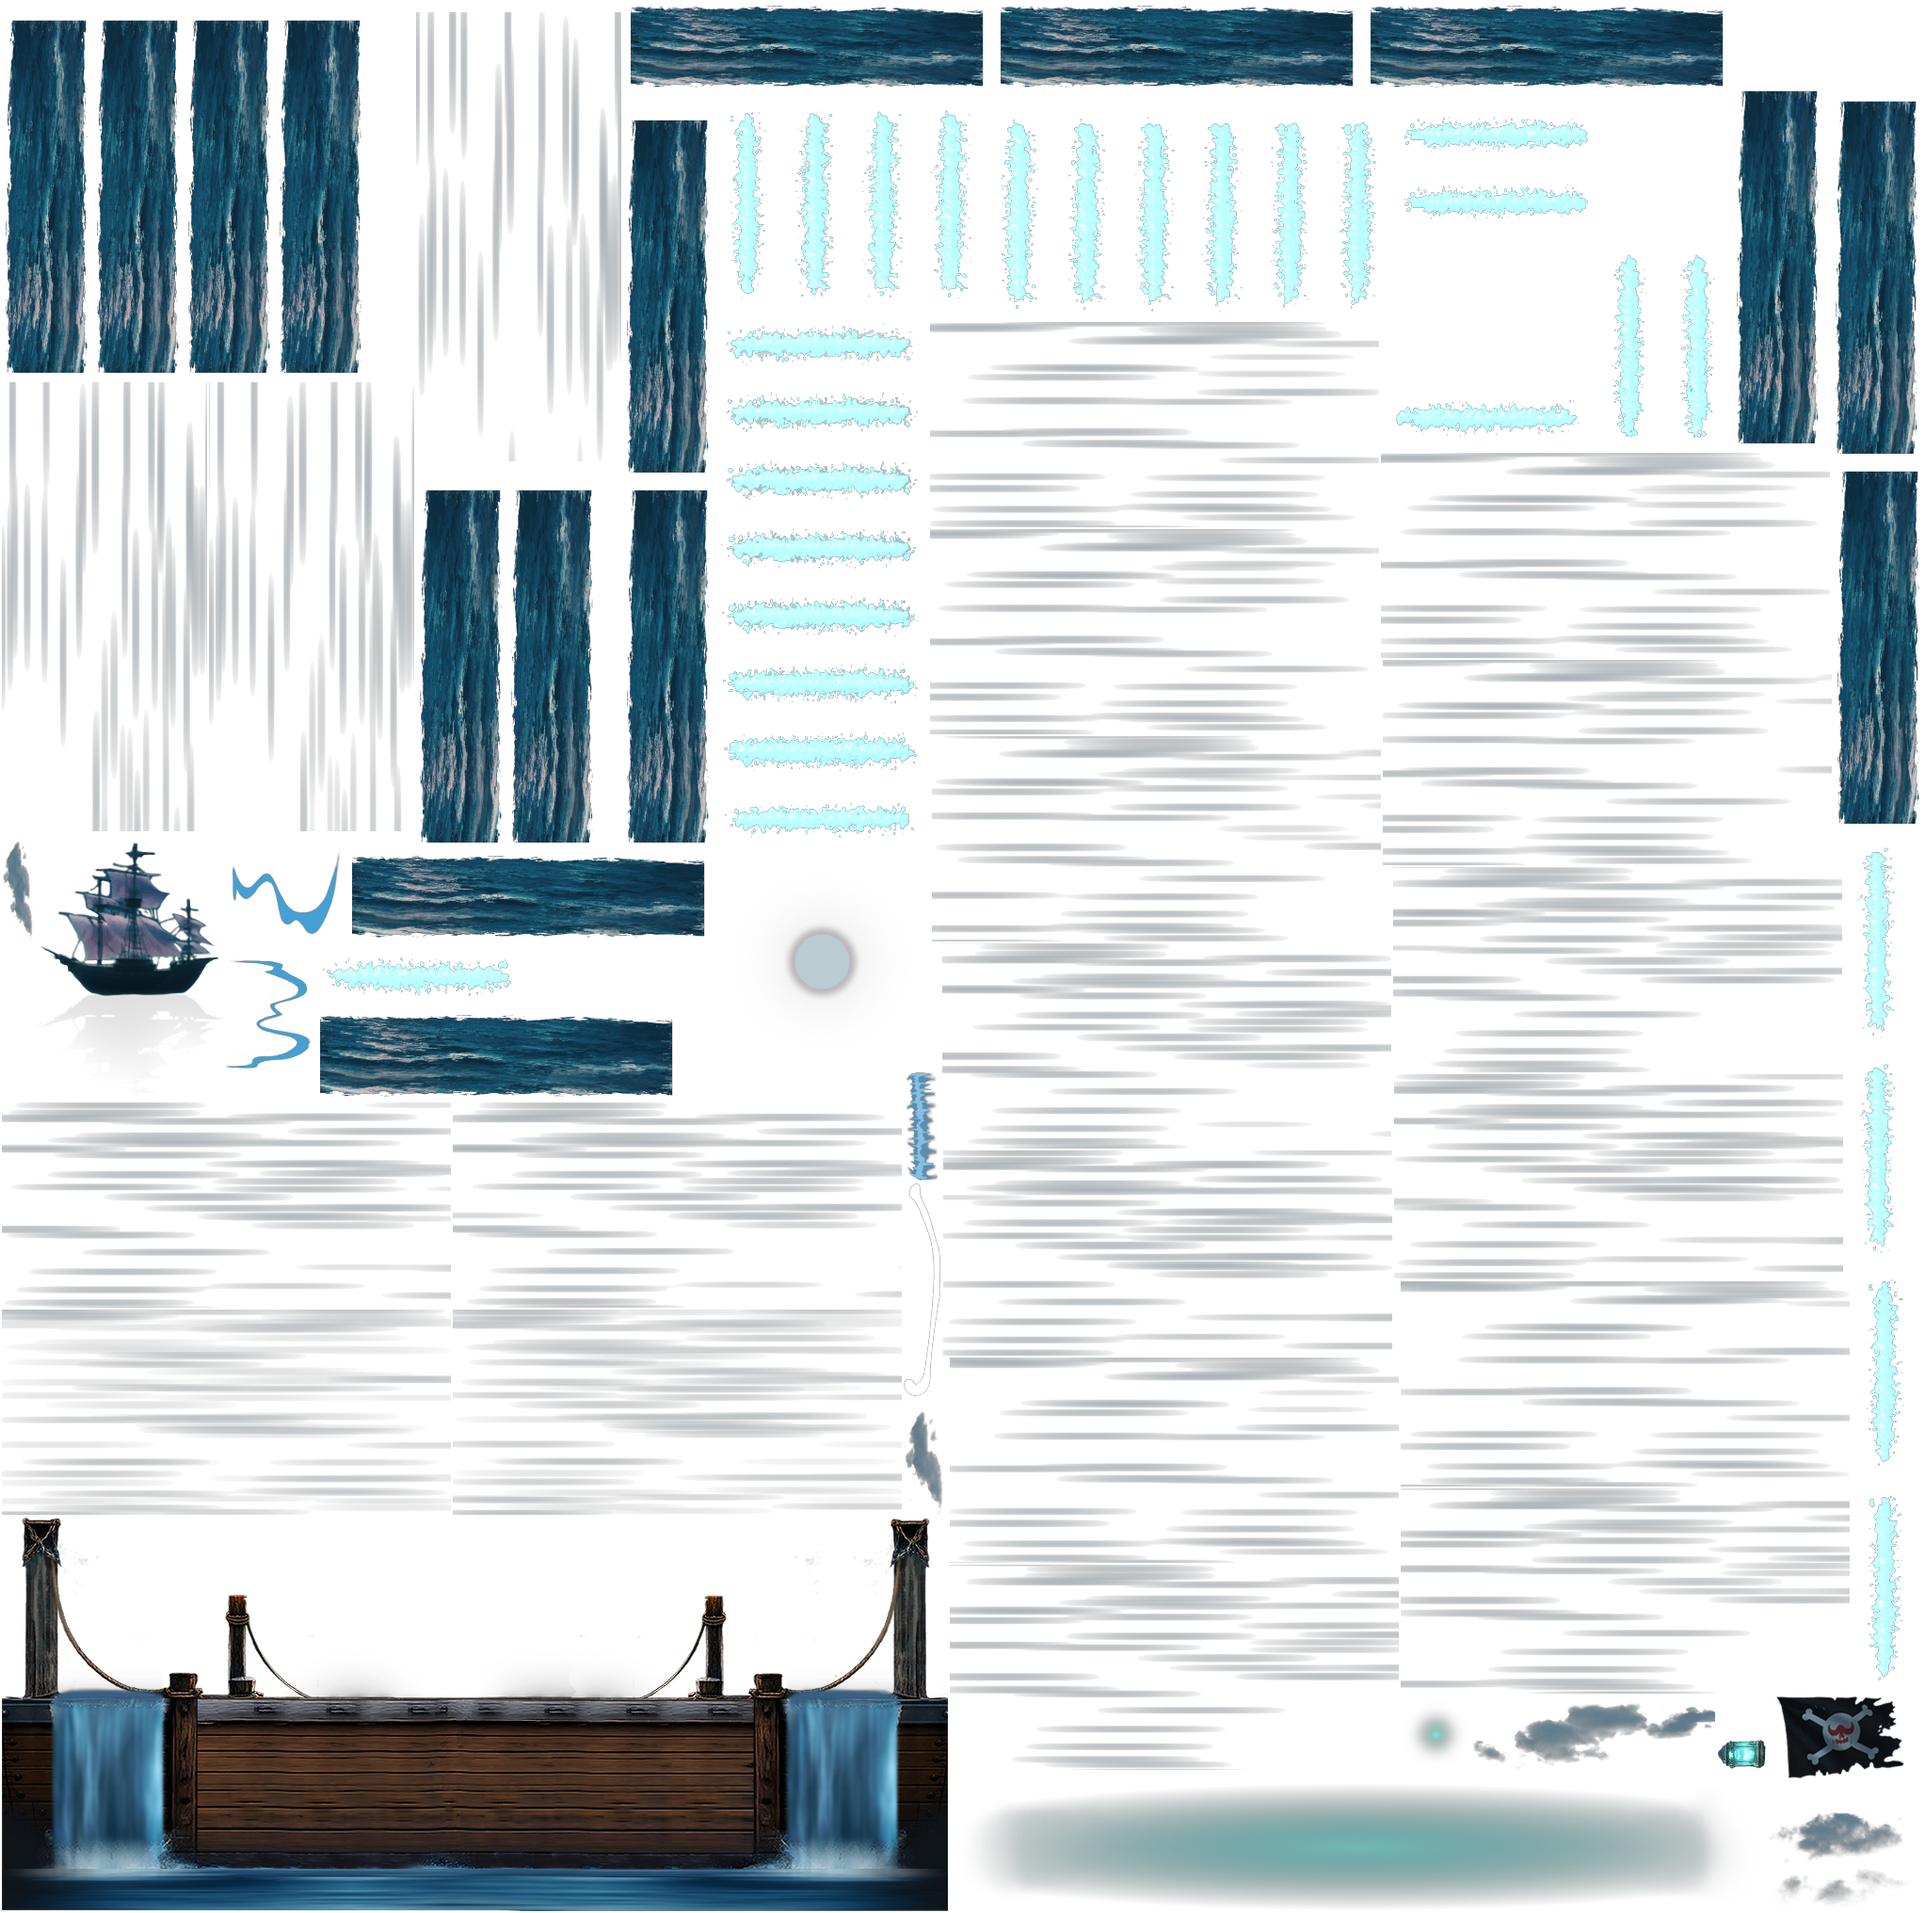
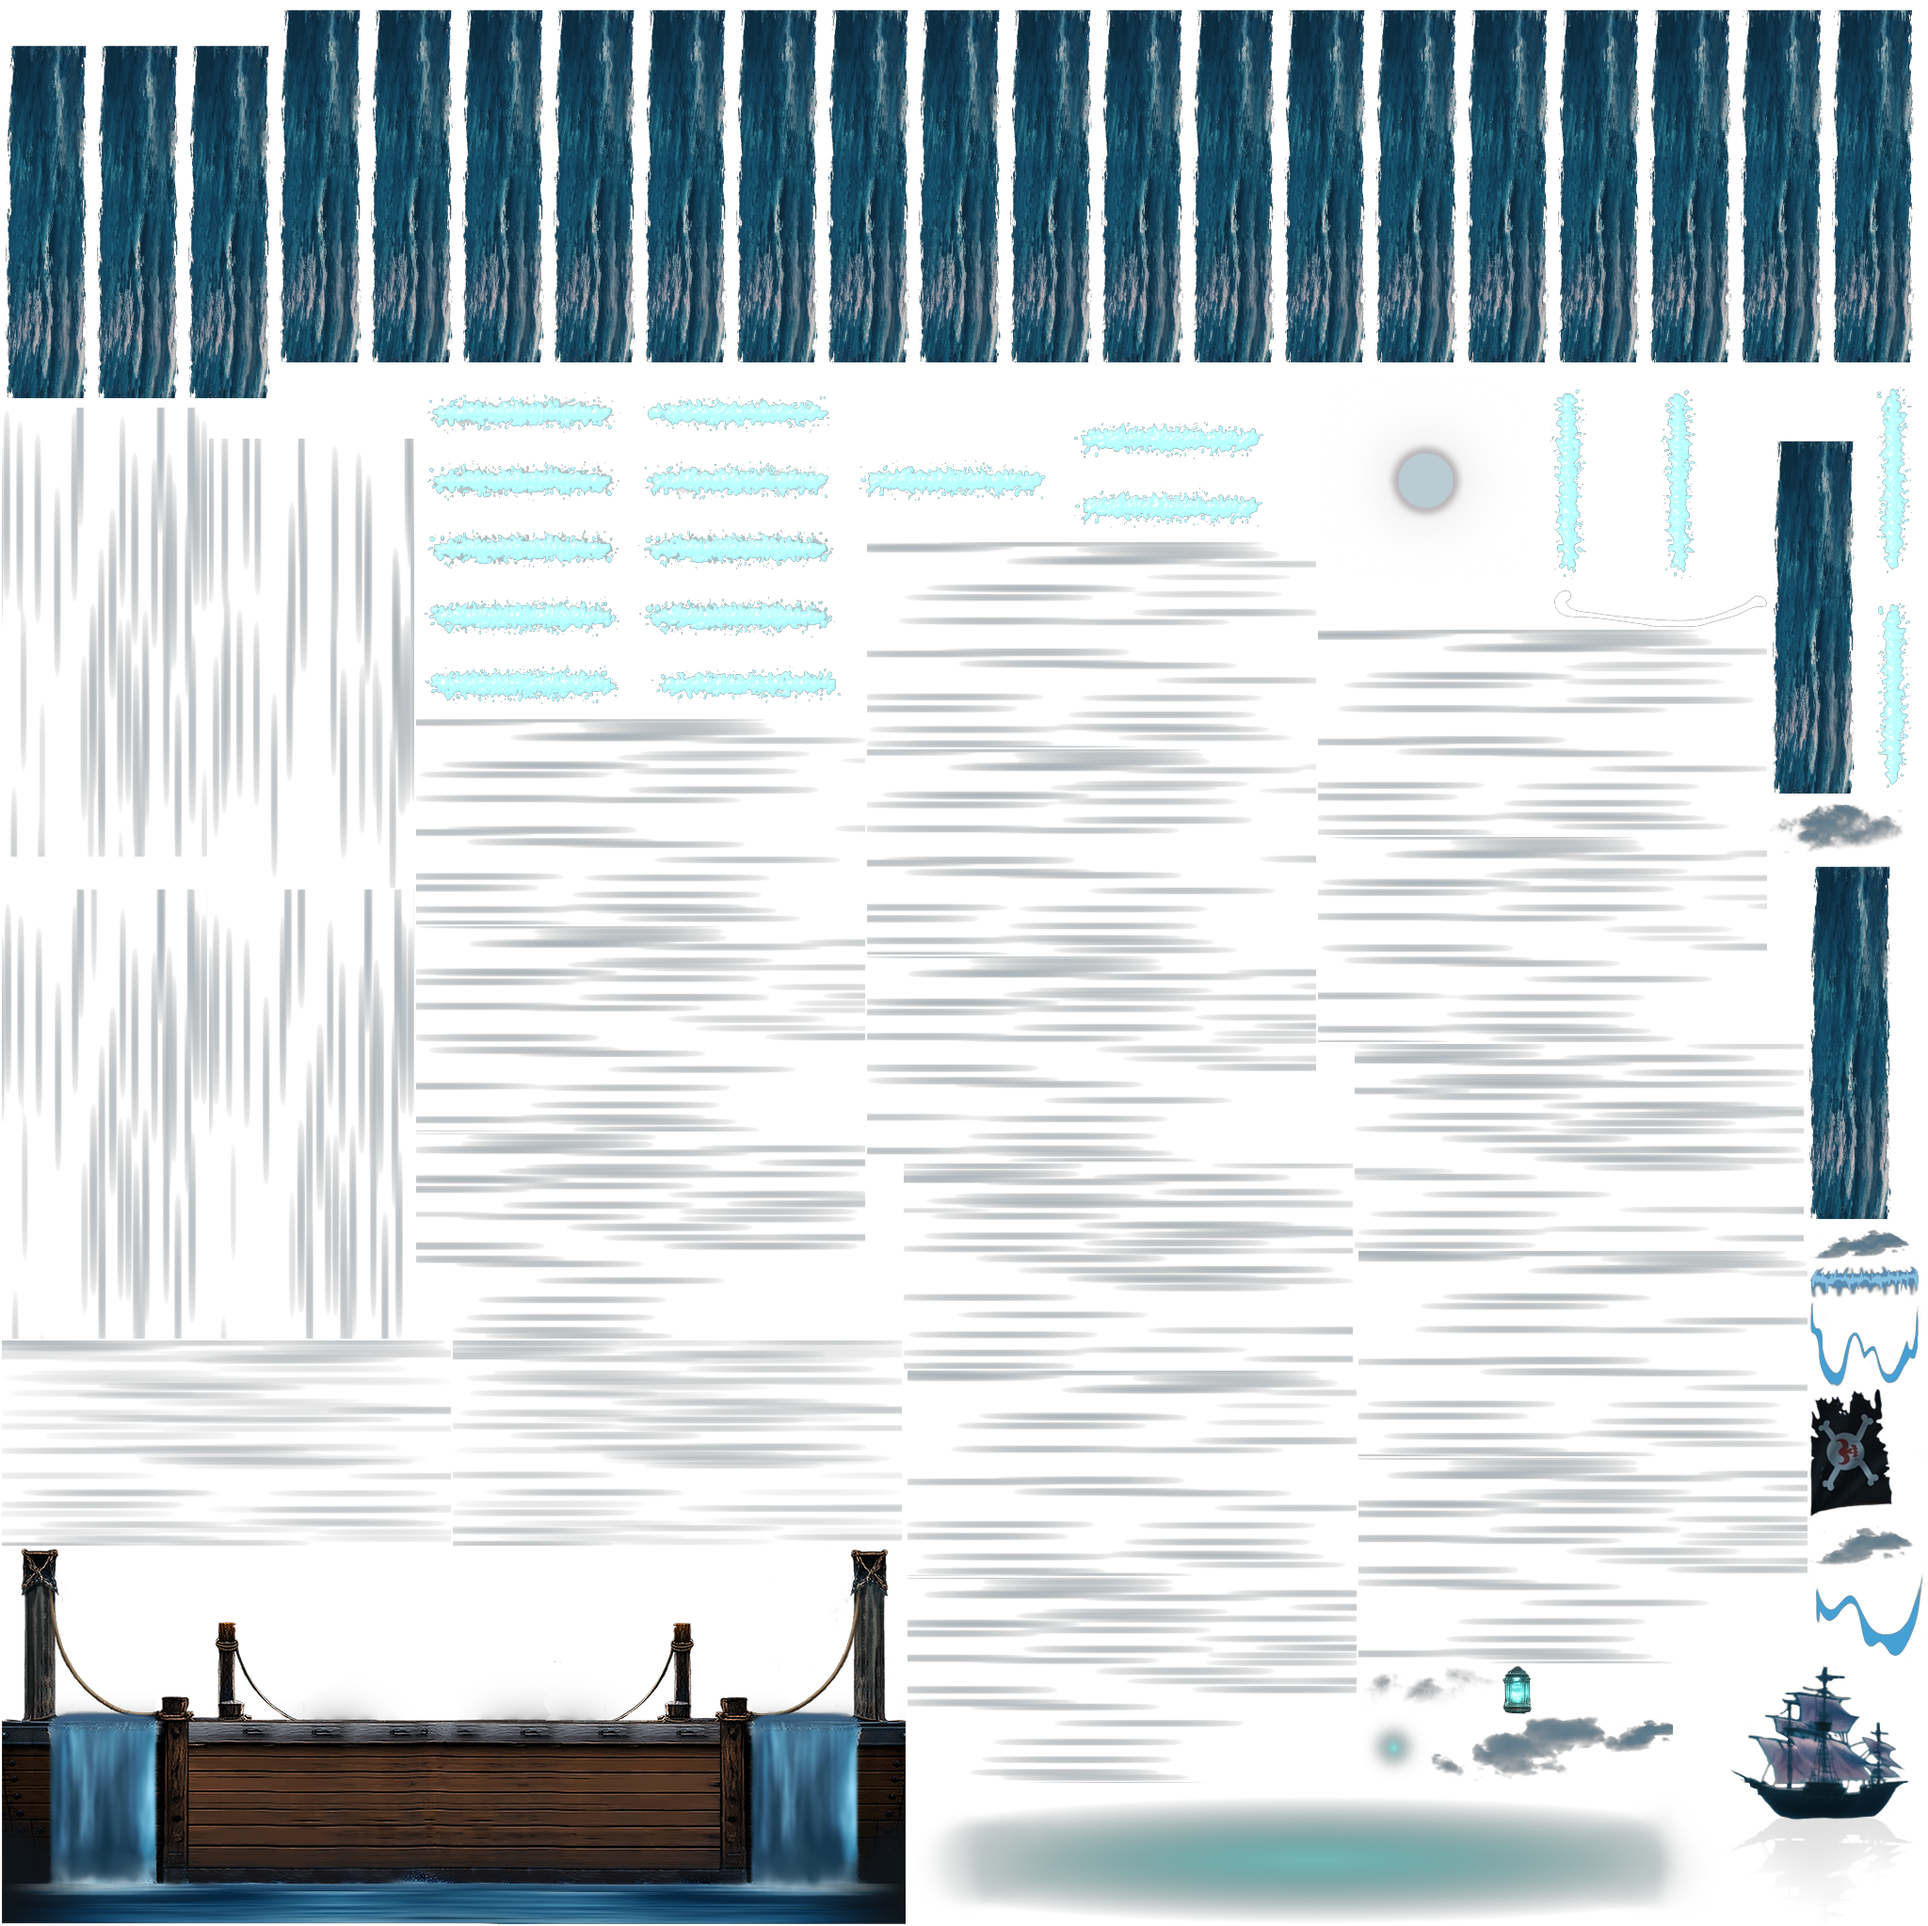
Take the v4 re-export of the landscape background spine
A like-for-like re-export rather than a re-rig, which is what makes it safe to
drop in: same Spine 4.3.23, the same single `animation`, and the same 37 slots
and 62 bones under the same names. Checked rather than assumed —
backgroundLandscapeAsset.ts addresses `animation` and the cloud1..7 / moon /
ship slots by name, and `boundsMode: 'authored'` hands the fit to the skeleton's
own bounds. Those bounds moved 2007.806 -> 2009.9592 with y -3.170 -> -5.323,
2.15 units more at the bottom: under a thousandth of the height, so none of the
fit constants needed re-tuning.

Both atlas pages were repacked, so the page sizes changed (2045x2032 ->
2048x2046, 2032x1457 -> 1967x1432) and every region moved with them. The atlas
and json therefore go in together with the images — a v4 atlas against a v3 page
samples garbage.

Pages encoded lossless with exact=True and verified byte-identical to the
masters across full RGBA, not alpha alone: every atlas here declares pma:true,
so RGB under transparent pixels is uploaded verbatim and any invented colour
there would be added into the scene as light. 8.8 MB of PNG -> 5.5 MB of WebP.

The atlas keeps its skeleton.png / skeleton_2.png page names. Nothing rewrites
them on disk; the asset def maps those names to the .webp URLs.

diff --git a/apps/plinko/art-source/README.md b/apps/plinko/art-source/README.md
@@ -12,7 +12,7 @@ rather than from an already-lossy WebP.
 | master | installed as | encode |
 |---|---|---|
 | `PlinkoFrame.png` | `static/img/game_area_background.webp` — **superseded, see below** | lossy q90 |
-| `BASE GAME/Landscape/v3/skeleton.{atlas,json,png}` + `skeleton_2.png` | `static/spine/background_landscape/` | lossless |
+| `BASE GAME/Landscape/v3/skeleton.{atlas,json,png}` + `skeleton_2.png` | `static/spine/background_landscape/` — **superseded, see below** | lossless |
 | `BASE GAME/portrait/v3/portrait.{atlas,json,png}` + `portrait_2.png` | `static/spine/background_portrait/` | lossless |
 | `FREE GAME/SHIP/v3/portrait.{atlas,json,png}` | `static/spine/ship/` | lossless |
 
@@ -23,6 +23,31 @@ Alpha survives either way, so a naive check passes — compare full RGBA.
 
 `img/` art has no such constraint (Pixi and the DOM both premultiply on upload, so RGB under
 alpha=0 never reaches the screen); lossy is used there when it beats lossless by a worthwhile margin.
+
+## Landscape background spine, v4 (2026-08-06)
+
+| master | installed as | encode |
+|---|---|---|
+| `v4/skeleton.{atlas,json,png}` + `skeleton_2.png` | `static/spine/background_landscape/` | lossless, `exact=True` |
+
+Replaces the V3 landscape drop of the row above. A like-for-like re-export, not a re-rig: same Spine
+4.3.23, same single `animation`, the same 37 slots and 62 bones under the same names — checked rather
+than assumed, because `backgroundLandscapeAsset.ts` addresses `animation` and the `cloud1..7` / `moon`
+/ `ship` slots by name, and `boundsMode: 'authored'` means the skeleton's own bounds drive the fit.
+Authored height moved 2007.806 → 2009.9592 with `y` -3.170 → -5.323, i.e. 2.15 units more at the
+bottom — under a thousandth of the height, so no re-tuning of the fit constants.
+
+Both atlas pages were repacked, so the page sizes changed (2045x2032 → 2048x2046, 2032x1457 →
+1967x1432) and the regions moved. The `.atlas` and `.json` must therefore be installed **together**
+with the images — a v4 atlas against a v3 page samples garbage.
+
+⚠ The atlas keeps its `skeleton.png` / `skeleton_2.png` page names on purpose. Nothing rewrites the
+file on disk; `backgroundLandscapeAsset.ts` maps those names to the `.webp` URLs in its `images`
+block. Renaming them inside the atlas breaks that lookup.
+
+Verified: both pages re-decode byte-identical to the masters across **full RGBA** (not alpha alone —
+see the `pma:true` warning above), the atlas' declared page sizes match the encoded files, and the
+served skeleton reports the v4 bounds. 8.8 MB of PNG → 5.5 MB of WebP.
 
 ## Game area frame (2026-08-06)
 
